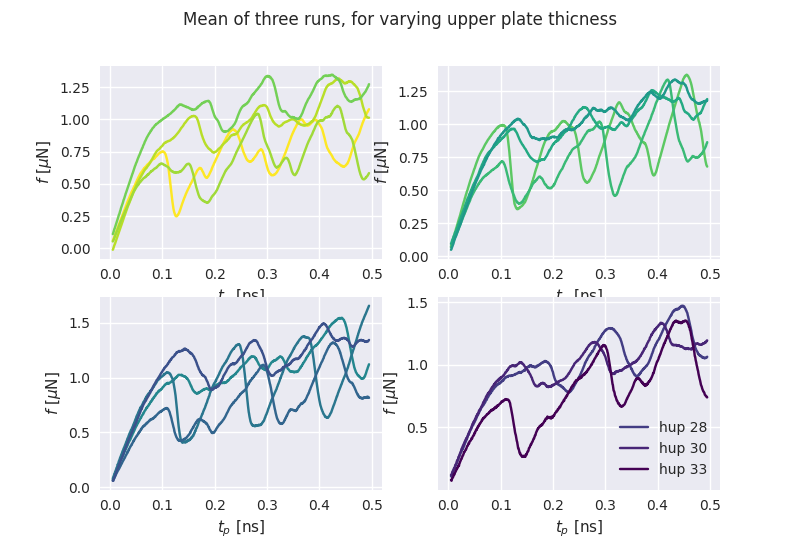
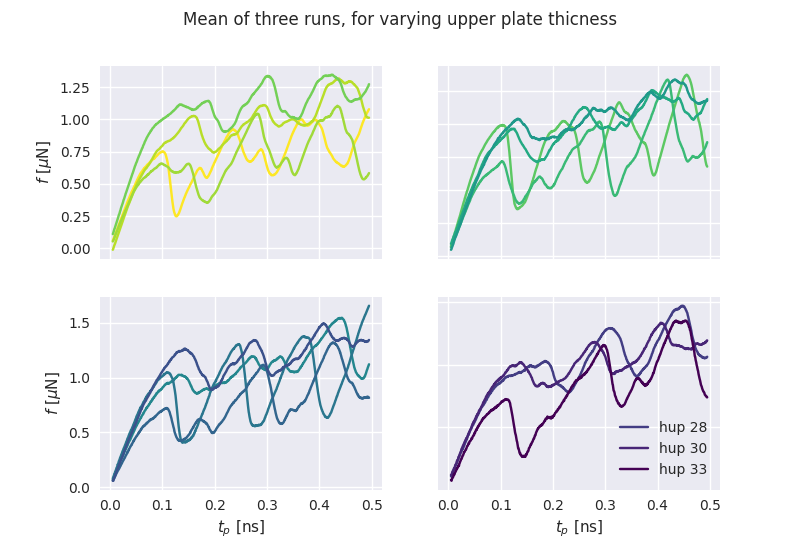
fig tweak

diff --git a/python/plot/plot_load_curves.py b/python/plot/plot_load_curves.py
@@ -108,15 +108,15 @@ def plot_load_curves_as_funciton_of_top_thiccness():
                                                             grid, template_lc,template_ms, seed)
             c = plt.cm.viridis((max_hup - hup[i])/(max_hup - min_hup + 0.01))
             axs[j].plot(load_curves[0,:,0], load_curves[0,:,1], c=c, label = f'hup {hup[i]}' )
+            plt.legend()
             i += 1
             
     for ax in axs.flat:
         ax.set(xlabel=r"$t_p$ [ns]", ylabel = r"$f$ [$\mu$N]")
-        #ax.label_outer()
+        ax.label_outer()
     #plt.xlabel(r"$t_p$ [ns]")
     #plt.ylabel(r"$f$ [$\mu$N]")
     fig.suptitle(f"Mean of three runs, for varying upper plate thicness")
-    plt.legend()
     plt.savefig(fig_dir + 'png/load_curves_thicc_runs_foursquare.png')
 
 
